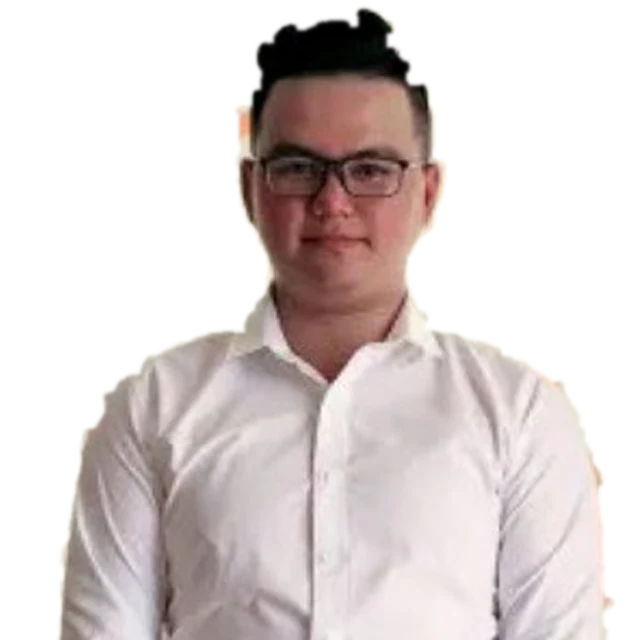
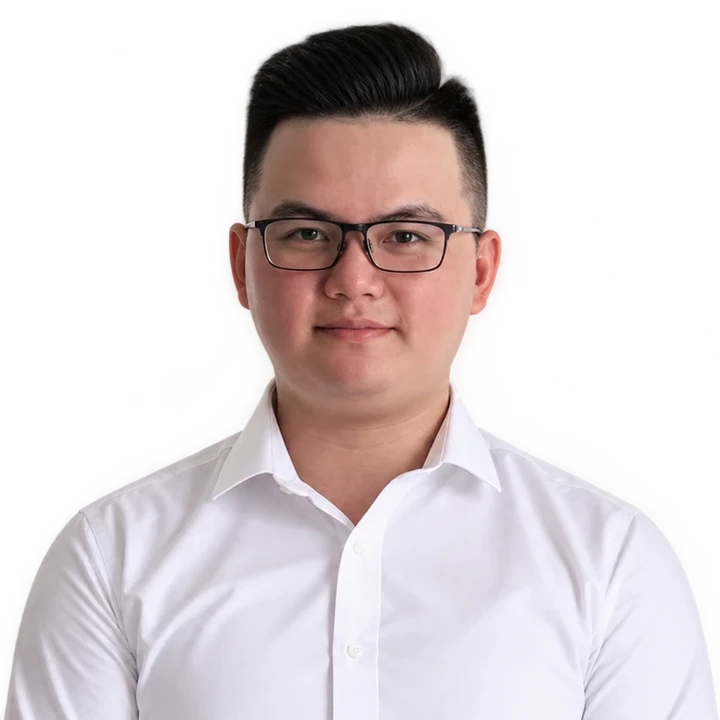
Homepage: new portrait, inspirational career text, scroll-driven timeline, richer reveal animations, scroll-linked background
Claude-Session: https://claude.ai/code/session_01ALJM4NtbkYzx3MKVEiNuAB

diff --git a/src/app/globals.css b/src/app/globals.css
@@ -161,10 +161,46 @@ body {
 .prose-lesson a, .prose-lesson li { overflow-wrap: anywhere; }
 
 /* ---------- Hiện dần khi cuộn (xem components/Reveal.tsx) ---------- */
-.reveal-hidden { opacity: 0; transform: translateY(18px); }
-.reveal-shown { opacity: 1; transform: none; transition: opacity .6s ease, transform .6s cubic-bezier(.2,.7,.2,1); }
+.reveal-hidden { opacity: 0; filter: blur(4px); }
+.reveal-hidden.rv-up { transform: translateY(28px); }
+.reveal-hidden.rv-left { transform: translateX(-36px); }
+.reveal-hidden.rv-right { transform: translateX(36px); }
+.reveal-hidden.rv-zoom { transform: scale(.88); }
+.reveal-shown { opacity: 1; filter: none; transform: none; transition: opacity .7s ease, transform .75s cubic-bezier(.2,.75,.2,1), filter .7s ease; }
+.sec-h::after { content: ""; display: block; height: 3px; width: 2.75rem; margin-top: .55rem; border-radius: 2px; background: linear-gradient(90deg, var(--brand), var(--brand-2)); transition: width .9s cubic-bezier(.2,.75,.2,1) .25s; }
+.reveal-hidden .sec-h::after { width: 0; }
+
+/* ---------- Dòng thời gian kinh nghiệm chạy theo cuộn trang ---------- */
+.tl { --tl: 1; position: relative; }
+.tl-line { position: absolute; left: 0; top: 0; bottom: 0; width: 2px; background: var(--border); }
+.tl-line > i { position: absolute; left: 0; top: 0; width: 100%; height: calc(var(--tl) * 100%); background: linear-gradient(var(--brand), var(--brand-2)); border-radius: 2px; box-shadow: 0 0 12px var(--brand-2); }
+.tl-item { transition: opacity .6s ease, transform .7s cubic-bezier(.2,.75,.2,1), filter .6s ease; }
+.tl-dyn .tl-item.tl-off { opacity: .22; transform: translateX(22px); filter: blur(2px); }
+.tl-dot { transition: background .4s, box-shadow .4s, transform .4s; }
+.tl-dyn .tl-item.tl-off .tl-dot { background: var(--border); transform: scale(.7); }
+@keyframes tl-pulse { 0% { box-shadow: 0 0 0 0 var(--brand-2); } 100% { box-shadow: 0 0 0 14px transparent; } }
+.tl-item.tl-now .tl-dot { animation: tl-pulse 1.8s ease-out infinite; }
+
+/* ---------- Nền chuyển động theo cuộn trang ---------- */
+.sbg { --sp: 0; --sy: 0; position: fixed; inset: 0; z-index: -10; overflow: hidden; pointer-events: none; }
+.sbg > * { position: absolute; will-change: transform; }
+.sbg-dots { inset: -20% 0; opacity: .5; background-image: radial-gradient(circle, color-mix(in srgb, var(--brand) 30%, transparent) 1px, transparent 1.4px); background-size: 34px 34px; transform: translate3d(0, calc(var(--sy) * -.06px), 0); mask-image: radial-gradient(ellipse at 50% 40%, #000 20%, transparent 75%); }
+.sbg-orb { border-radius: 9999px; filter: blur(70px); }
+.sbg-o1 { width: 46vmax; height: 46vmax; left: -14vmax; top: -10vmax; background: radial-gradient(circle, color-mix(in srgb, var(--brand) 38%, transparent), transparent 65%); transform: translate3d(calc(var(--sp) * 22vw), calc(var(--sp) * 70vh), 0) scale(calc(1 + var(--sp) * .35)); }
+.sbg-o2 { width: 40vmax; height: 40vmax; right: -12vmax; top: 18vh; background: radial-gradient(circle, color-mix(in srgb, var(--brand-2) 34%, transparent), transparent 65%); transform: translate3d(calc(var(--sp) * -26vw), calc(var(--sp) * -30vh), 0) scale(calc(1.2 - var(--sp) * .3)); }
+.sbg-o3 { width: 30vmax; height: 30vmax; left: 30vw; bottom: -14vmax; background: radial-gradient(circle, color-mix(in srgb, var(--brand) 26%, transparent), transparent 65%); transform: translate3d(calc(var(--sp) * 18vw), calc(var(--sp) * -55vh), 0); }
+.sbg-ring { width: 64vmin; height: 64vmin; right: 4vw; top: 12vh; border-radius: 9999px; border: 1px dashed color-mix(in srgb, var(--brand-2) 40%, transparent); transform: rotate(calc(var(--sp) * 540deg)) translate3d(0, calc(var(--sp) * 20vh), 0); }
+.sbg-ring::after { content: ""; position: absolute; left: 50%; top: -5px; width: 10px; height: 10px; border-radius: 9999px; background: var(--brand-2); box-shadow: 0 0 16px var(--brand-2); }
+.sbg-line { width: 1px; height: 38vh; background: linear-gradient(transparent, color-mix(in srgb, var(--brand-2) 55%, transparent), transparent); }
+.sbg-l1 { left: 12vw; top: 60vh; transform: translate3d(0, calc(var(--sp) * -140vh), 0); }
+.sbg-l2 { left: 54vw; top: 90vh; transform: translate3d(0, calc(var(--sp) * -190vh), 0); }
+.sbg-l3 { left: 86vw; top: 70vh; transform: translate3d(0, calc(var(--sp) * -120vh), 0); }
 @media (prefers-reduced-motion: reduce) {
-  .reveal-hidden, .reveal-shown { opacity: 1; transform: none; transition: none; }
+  .reveal-hidden, .reveal-shown { opacity: 1; transform: none; filter: none; transition: none; }
+  .reveal-hidden .sec-h::after { width: 2.75rem; }
+  .tl-dyn .tl-item.tl-off { opacity: 1; transform: none; filter: none; }
+  .sbg > * { transform: none !important; }
+  .tl-item.tl-now .tl-dot { animation: none; }
 }
 html { scroll-behavior: smooth; }
 @media (prefers-reduced-motion: reduce) { html { scroll-behavior: auto; } }

diff --git a/src/app/[lang]/page.tsx b/src/app/[lang]/page.tsx
@@ -9,6 +9,7 @@ import { Experience } from "@/components/Experience";
 import { LearningRows } from "@/components/LearningRows";
 import { ProjectBlock } from "@/components/ProjectBlock";
 import { Reveal } from "@/components/Reveal";
+import { ScrollBackground } from "@/components/ScrollBackground";
 import { SocialLinks } from "@/components/SocialLinks";
 import { categories, coursesOf } from "@/content/registry";
 import {
@@ -125,6 +126,7 @@ export default async function Home({
           },
         ]}
       />
+      <ScrollBackground />
       <HeroBackground />
       <div className="mx-auto max-w-5xl px-4">
         <header className="pb-12 pt-10 sm:pt-16">
@@ -216,7 +218,7 @@ export default async function Home({
 
         <section id="about" aria-labelledby="about-h" className="py-12">
           <Reveal>
-            <h2 id="about-h" className="h-display text-3xl">
+            <h2 id="about-h" className="h-display sec-h text-3xl">
               {t.objectiveTitle[lang]}
             </h2>
             <p className="mt-4 max-w-3xl text-xl leading-relaxed">
@@ -227,7 +229,7 @@ export default async function Home({
 
         <section id="experience" aria-labelledby="exp-h" className="py-12">
           <Reveal>
-            <h2 id="exp-h" className="h-display text-3xl">
+            <h2 id="exp-h" className="h-display sec-h text-3xl">
               {t.experienceTitle[lang]}
             </h2>
           </Reveal>
@@ -236,13 +238,17 @@ export default async function Home({
 
         <section id="skills" aria-labelledby="skills-h" className="py-12">
           <Reveal>
-            <h2 id="skills-h" className="h-display text-3xl">
+            <h2 id="skills-h" className="h-display sec-h text-3xl">
               {t.skillsTitle[lang]}
             </h2>
           </Reveal>
           <div className="mt-8 grid gap-x-10 gap-y-8 sm:grid-cols-2">
             {skillGroups.map((g, i) => (
-              <Reveal key={g.items[0]} delay={i * 80}>
+              <Reveal
+                key={g.items[0]}
+                delay={i * 90}
+                variant={i % 2 ? "right" : "left"}
+              >
                 <h3 className="text-sm font-semibold uppercase tracking-wide text-muted">
                   {g.name[lang]}
                 </h3>
@@ -263,14 +269,14 @@ export default async function Home({
 
         <section id="projects" aria-labelledby="projects-h" className="py-12">
           <Reveal>
-            <h2 id="projects-h" className="h-display text-3xl">
+            <h2 id="projects-h" className="h-display sec-h text-3xl">
               {t.projectsTitle[lang]}
             </h2>
             <p className="mt-2 text-muted">{t.projectsIntro[lang]}</p>
           </Reveal>
           <div className="mt-8">
             {projects.map((p, i) => (
-              <Reveal key={p.id}>
+              <Reveal key={p.id} variant={i % 2 ? "right" : "left"}>
                 <ProjectBlock p={p} lang={lang} eager={i === 0} />
               </Reveal>
             ))}
@@ -279,7 +285,7 @@ export default async function Home({
 
         <section id="learning" aria-labelledby="learn-h" className="py-12">
           <Reveal>
-            <h2 id="learn-h" className="h-display text-3xl">
+            <h2 id="learn-h" className="h-display sec-h text-3xl">
               {t.learningTitle[lang]}
             </h2>
             <p className="mt-2 max-w-xl text-muted">{t.learningIntro[lang]}</p>
@@ -293,7 +299,7 @@ export default async function Home({
           className="py-12 pb-20"
         >
           <Reveal>
-            <h2 id="contact-h" className="h-display text-3xl">
+            <h2 id="contact-h" className="h-display sec-h text-3xl">
               {t.contactTitle[lang]}
             </h2>
             <p className="mt-2 max-w-xl text-muted">{t.contactBody[lang]}</p>

diff --git a/src/components/Experience.tsx b/src/components/Experience.tsx
@@ -1,15 +1,67 @@
-import { Reveal } from "@/components/Reveal";
+"use client";
+
+import { useEffect, useRef, useState } from "react";
 import { experience } from "@/content/site";
 import type { Locale } from "@/lib/i18n";
 
-/** Dòng thời gian kinh nghiệm làm việc, mỗi mục hiện dần khi cuộn tới. */
+/**
+ * Dòng thời gian kinh nghiệm: đường kẻ "chạy" theo vị trí cuộn trang, các mốc sáng dần khi đường kẻ đi tới.
+ * Khi chưa có JS hoặc người dùng giảm chuyển động, toàn bộ hiện sẵn và đường kẻ đầy.
+ */
 export function Experience({ lang }: { lang: Locale }) {
+  const olRef = useRef<HTMLOListElement>(null);
+  const itemRefs = useRef<(HTMLLIElement | null)[]>([]);
+  const [dyn, setDyn] = useState(false);
+  const [active, setActive] = useState(experience.length);
+
+  useEffect(() => {
+    const ol = olRef.current;
+    if (!ol || window.matchMedia("(prefers-reduced-motion: reduce)").matches) return;
+    let raf = 0;
+    const update = () => {
+      raf = 0;
+      const rect = ol.getBoundingClientRect();
+      const anchor = window.innerHeight * 0.62;
+      const p = Math.min(1, Math.max(0, (anchor - rect.top) / rect.height));
+      ol.style.setProperty("--tl", p.toFixed(4));
+      let n = 0;
+      itemRefs.current.forEach((li) => {
+        if (li && li.getBoundingClientRect().top + 14 < anchor) n++;
+      });
+      setActive(n);
+    };
+    const onScroll = () => {
+      if (!raf) raf = requestAnimationFrame(update);
+    };
+    const t = setTimeout(() => {
+      setDyn(true);
+      update();
+    }, 0);
+    window.addEventListener("scroll", onScroll, { passive: true });
+    window.addEventListener("resize", onScroll);
+    return () => {
+      clearTimeout(t);
+      cancelAnimationFrame(raf);
+      window.removeEventListener("scroll", onScroll);
+      window.removeEventListener("resize", onScroll);
+    };
+  }, []);
+
   return (
-    <ol className="mt-8 space-y-9 border-l-2 border-line pl-7">
+    <ol ref={olRef} className={`tl mt-8 space-y-9 pl-8 ${dyn ? "tl-dyn" : ""}`}>
+      <span className="tl-line" aria-hidden>
+        <i />
+      </span>
       {experience.map((j, i) => (
-        <Reveal as="li" key={`${j.company}-${j.from}`} delay={Math.min(i, 2) * 70} className="relative">
+        <li
+          key={`${j.company}-${j.from}`}
+          ref={(el) => {
+            itemRefs.current[i] = el;
+          }}
+          className={`tl-item relative ${i < active ? "tl-on" : "tl-off"} ${dyn && i === active - 1 ? "tl-now" : ""}`}
+        >
           <span
-            className={`absolute -left-[2.2rem] top-1.5 h-3 w-3 rounded-full border-2 border-bg ${i === 0 ? "bg-brand ring-4 ring-brand-soft" : "bg-brand/70"}`}
+            className={`tl-dot absolute -left-[2.45rem] top-1.5 h-3.5 w-3.5 rounded-full border-2 border-bg ${i === 0 ? "bg-brand" : "bg-brand/80"}`}
             aria-hidden
           />
           <div className="flex flex-wrap items-baseline justify-between gap-x-4 gap-y-0.5">
@@ -25,7 +77,7 @@ export function Experience({ lang }: { lang: Locale }) {
               <li key={k}>{pt[lang]}</li>
             ))}
           </ul>
-        </Reveal>
+        </li>
       ))}
     </ol>
   );

diff --git a/src/components/ScrollBackground.tsx b/src/components/ScrollBackground.tsx
@@ -1,0 +1,47 @@
+"use client";
+
+import { useEffect, useRef } from "react";
+
+/**
+ * Nền cố định phía sau trang: các quầng sáng, vòng quỹ đạo và vệt sáng di chuyển theo vị trí cuộn.
+ * Chỉ cập nhật hai biến CSS (--sp: tiến độ 0–1, --sy: số px đã cuộn) nên rất nhẹ; tắt hoàn toàn khi giảm chuyển động.
+ */
+export function ScrollBackground() {
+  const ref = useRef<HTMLDivElement>(null);
+
+  useEffect(() => {
+    const el = ref.current;
+    if (!el || window.matchMedia("(prefers-reduced-motion: reduce)").matches) return;
+    let raf = 0;
+    const update = () => {
+      raf = 0;
+      const max = Math.max(1, document.documentElement.scrollHeight - window.innerHeight);
+      el.style.setProperty("--sp", Math.min(1, window.scrollY / max).toFixed(4));
+      el.style.setProperty("--sy", String(Math.round(window.scrollY)));
+    };
+    const onScroll = () => {
+      if (!raf) raf = requestAnimationFrame(update);
+    };
+    update();
+    window.addEventListener("scroll", onScroll, { passive: true });
+    window.addEventListener("resize", onScroll);
+    return () => {
+      cancelAnimationFrame(raf);
+      window.removeEventListener("scroll", onScroll);
+      window.removeEventListener("resize", onScroll);
+    };
+  }, []);
+
+  return (
+    <div ref={ref} className="sbg" aria-hidden>
+      <div className="sbg-dots" />
+      <div className="sbg-orb sbg-o1" />
+      <div className="sbg-orb sbg-o2" />
+      <div className="sbg-orb sbg-o3" />
+      <div className="sbg-ring" />
+      <div className="sbg-line sbg-l1" />
+      <div className="sbg-line sbg-l2" />
+      <div className="sbg-line sbg-l3" />
+    </div>
+  );
+}

diff --git a/src/content/site.ts b/src/content/site.ts
@@ -241,8 +241,8 @@ export const t = {
   } as L10n,
   objectiveTitle: { vi: "Mục tiêu nghề nghiệp", en: "Career objective" } as L10n,
   objective: {
-    vi: "Chuyên gia phân tích dữ liệu đam mê tối ưu hóa vận hành. Mục tiêu sử dụng tư duy phân tích chuyên sâu để nhận diện rủi ro biên lợi nhuận và đóng góp vào kế hoạch chiến lược dài hạn của công ty.",
-    en: "A data analyst passionate about optimising operations. My goal is to apply deep analytical thinking to spot margin risks and contribute to the company's long-term strategic plans.",
+    vi: "Mình tin dữ liệu không chỉ là những con số: nó là cách để nhìn thấy thế giới. Mình dùng công nghệ và dữ liệu để kết nối con người với nhau, và để soi vào những góc khuất đang bị che đi sau các bảng tính và biểu đồ. Từ một dòng số tưởng chừng vô hồn, mình muốn tìm ra điều thật sự đang diễn ra, rồi biến nó thành một quyết định sáng suốt hơn.",
+    en: "I believe data is more than numbers: it is a way of seeing the world. I use technology and data to connect people, and to shine a light on the blind spots hidden behind spreadsheets and charts. From a row of seemingly lifeless figures, I want to find what is really going on, and turn it into a wiser decision.",
   } as L10n,
   statSince: { vi: "Làm việc từ", en: "Working since" } as L10n,
   statJobs: { vi: "Vị trí đã làm", en: "Roles held" } as L10n,

diff --git a/src/components/Reveal.tsx b/src/components/Reveal.tsx
@@ -12,11 +12,13 @@ export function Reveal({
   delay = 0,
   as: Tag = "div",
   className = "",
+  variant = "up",
 }: {
   children: ReactNode;
   delay?: number;
   as?: "div" | "li" | "section" | "article";
   className?: string;
+  variant?: "up" | "left" | "right" | "zoom";
 }) {
   const ref = useRef<HTMLElement | null>(null);
   const [state, setState] = useState<"ssr" | "hidden" | "shown">("ssr");
@@ -44,7 +46,7 @@ export function Reveal({
     };
   }, []);
 
-  const cls = `${className} ${state === "hidden" ? "reveal-hidden" : state === "shown" ? "reveal-shown" : ""}`;
+  const cls = `${className} rv-${variant} ${state === "hidden" ? "reveal-hidden" : state === "shown" ? "reveal-shown" : ""}`;
   return (
     // eslint-disable-next-line @typescript-eslint/no-explicit-any
     <Tag ref={ref as any} className={cls} style={state !== "ssr" ? { transitionDelay: `${delay}ms` } : undefined}>
